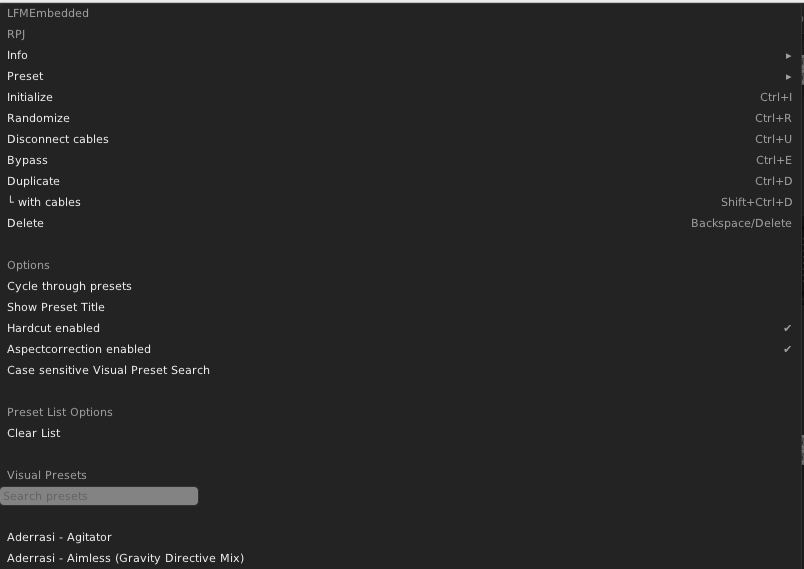
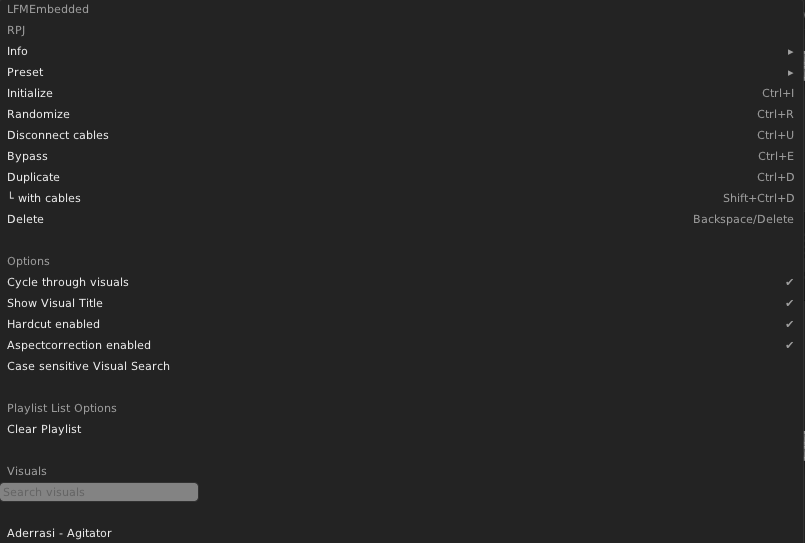
Updated docs

diff --git a/docs/lowfatmilk.md b/docs/lowfatmilk.md
@@ -8,43 +8,59 @@ LowFatMilk embeds projectM, an open-source project that reimplements the esteeme
 
 ## Modules
 
-LowFatMilk comes in two versions, an embedded widget and a seperate windo version that can be dragged onto a seperate monitor.
+LowFatMilk comes in two versions, an embedded widget and a seperate windowed version that can be dragged around on the screen, but also onto a seperate monitor.
 
-![lowfatmilk embedded image](./lowfatmilk1.png)
+<p align="center">
+  <img alt="lowfatmilk embedded image" src="./lowfatmilk1.png" width="50%">
+</p>
 
-Above is the embedded version. This version is a module and the display is sticked to the module. You can increase the size of the display (resize the window). By rightclicking the module you will get the option to change specific settings of the module that will control the rendering and also gives you an option to search in your list of available presets.
+Above is the embedded version. This version is a module and the display is sticked to the module. You can increase the size of the display (resize the window). 
+By rightclicking the module you will get the option to change specific settings of the module that will control the rendering and also gives you an option to search in your list of available presets.
 
-![lowfatmilk windowed image](./lowfatmilk3.png)
+<p align="center">
+  <img alt="lowfatmilk windowed image" src="./lowfatmilk3.png" width="10%">
+</p>
 
 The windowed version has similar functionalities as the embedded version, but a major difference is that the display is not sticked to the module but can be dragged to wherever you want it to go. It can even go to a different monitor, if you have multiple monitors installed in your setup.
 
 ## Menu
 
-![lowfatmilk menu image](./lowfatmilk2.png)
-
 The menu shown here offers different options that let you control the module. We will explain each option below.
 
-### Cycle through presets
-Right clicking the module gives you the option to enable or disable Cycle through presets. If this is enabled the module will automatically jump to another preset. The time it stays with a preset can be set by the timer knob on the module. 
+<p align="center">
+  <img alt="lowfatmilk menu image" src="./lowfatmilk2.png" width="50%">
+</p>
+
+### Cycle through visuals
+Right clicking the module gives you the option to enable or disable Cycle through visuals. If this is enabled the module will automatically jump to another visual based on timer and hardcut settings. The time it stays with a visual can for example be set by the timer knob on the module. 
 
 ### Hardcut Enabled
-A hard cut is a beat-induced immediate transition to the next preset that might happen before the preset display duration is reached. Also see Hard Cut Duration and Hard Cut Sensitivity to fine-tune the behaviour. Cycle through presets needs to be enabled for this to work.
+A hard cut is a beat-induced immediate transition to the next visual that might happen before the visual display duration is reached. Also see Hard Cut Duration and Hard Cut Sensitivity to fine-tune the behaviour. **Cycle through visuals needs to be enabled for this to work.**
 
 ### Aspectcorrection Enabled
-Enables or disables aspect ratio correction in presets that support it. This sets a flag presets can use to aspect-correct rendered shapes, which otherwise would be distorted if the window display isn't exactly square. This is generally used to make shapes not appear stretched, e.g. circles or squares not being squished in one direction.
+Enables or disables aspect ratio correction in visuals that support it. This sets a flag visuals can use to aspect-correct rendered shapes, which otherwise would be distorted if the window display isn't exactly square. This is generally used to make shapes not appear stretched, e.g. circles or squares not being squished in one direction.
 
 ### Case sensitive Visual Preset Search
-This setting is used for the search option. If this is enabled the search will take place Case sensitive (so it will make differnce between lowercase and uppercase).
+This setting is used for the search option. If this is enabled the search will take place Case sensitive (so it will make difference between lowercase and uppercase).
 
-### Visual Presets
-Below it one can see the Visual presets that are available. The list can be huge, and to make it easier to navigate to the right preset a searchbox is available where you can type to find the desired preset.
+### Visuals
+Below it one can see the list of visuals that are available. The list can be huge, and to make it easier to navigate to the right visual a searchbox is available where you can type to find the desired visual.
 
-![lowfatmilk menu image](./lowfatmilk4.png)
+<p align="center">
+  <img alt="lowfatmilk visuals menu image" src="./lowfatmilk4.png" width="50%">
+</p>
 
 ## Playlists
 The latest version of LFM gives you the opportunity to create lists with visuals that you like, using the VCV preset functionality.
 
-The modules now have a button on the top which will become red if you press it. When pressed/active/red , the module is in playlist mode and will play your created list. When off, it will play the default list that contains the thousands of visuals.
+The modules now have a button at the top which will become red if you press it. When pressed/active/red , the module is in playlist mode and will play your created list. When off, it will play the default list that contains the thousands of visuals.
+
+
+<p align="center">
+  <img alt="lowfatmilk playlist off image" src="./lowfatmilk5.png" width="5%">
+&nbsp; &nbsp; &nbsp; &nbsp;
+  <img alt="lowfatmilk playlist on image" src="./lowfatmilk6.png" width="5%">
+</p>
 
 When you are not in playlist mode, you can add visuals to your list by pressing the + button when a visual is playing that you like. A visual can only be added once.
 
